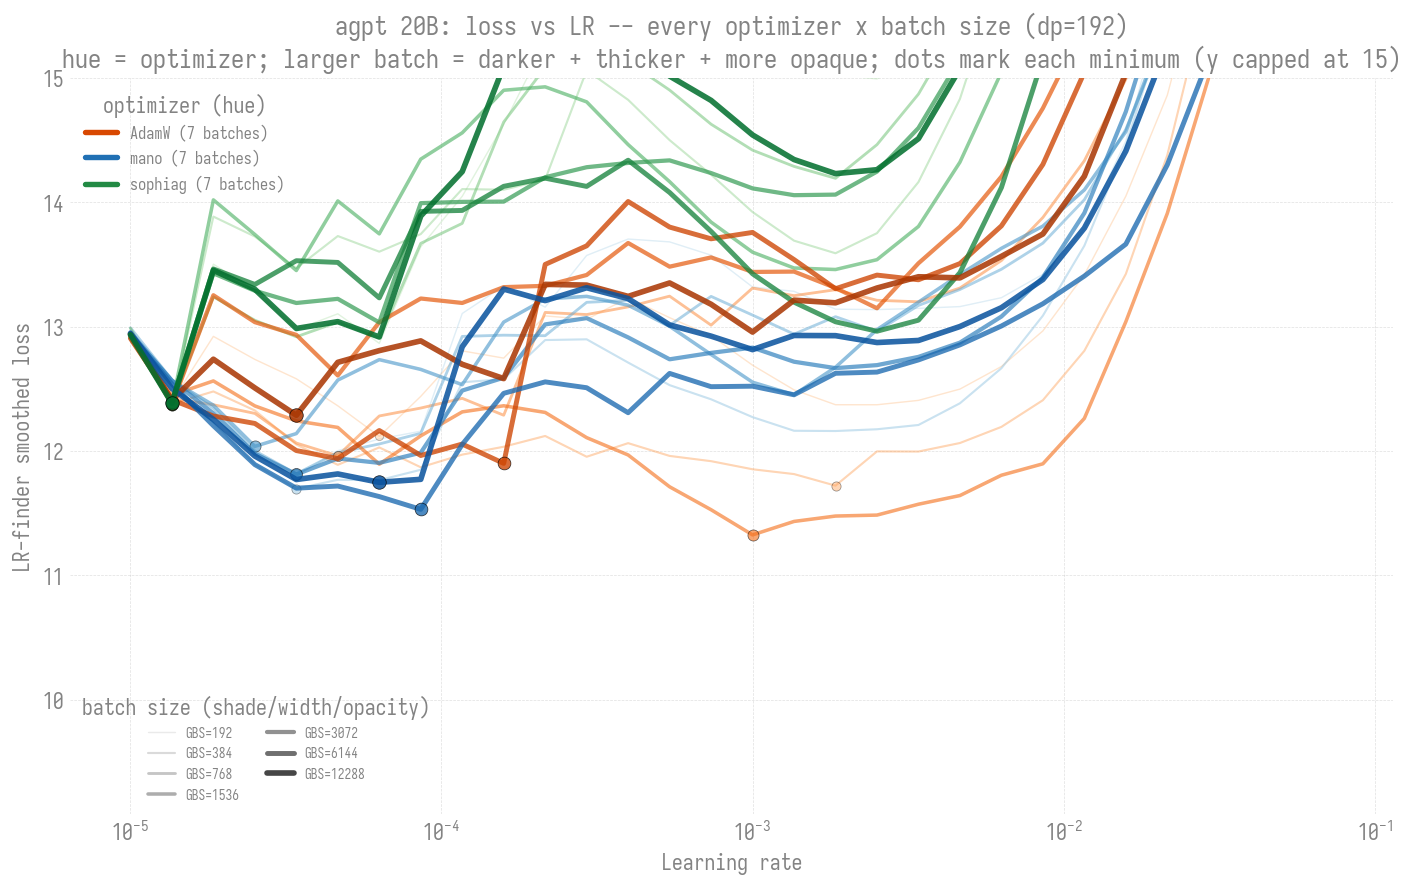
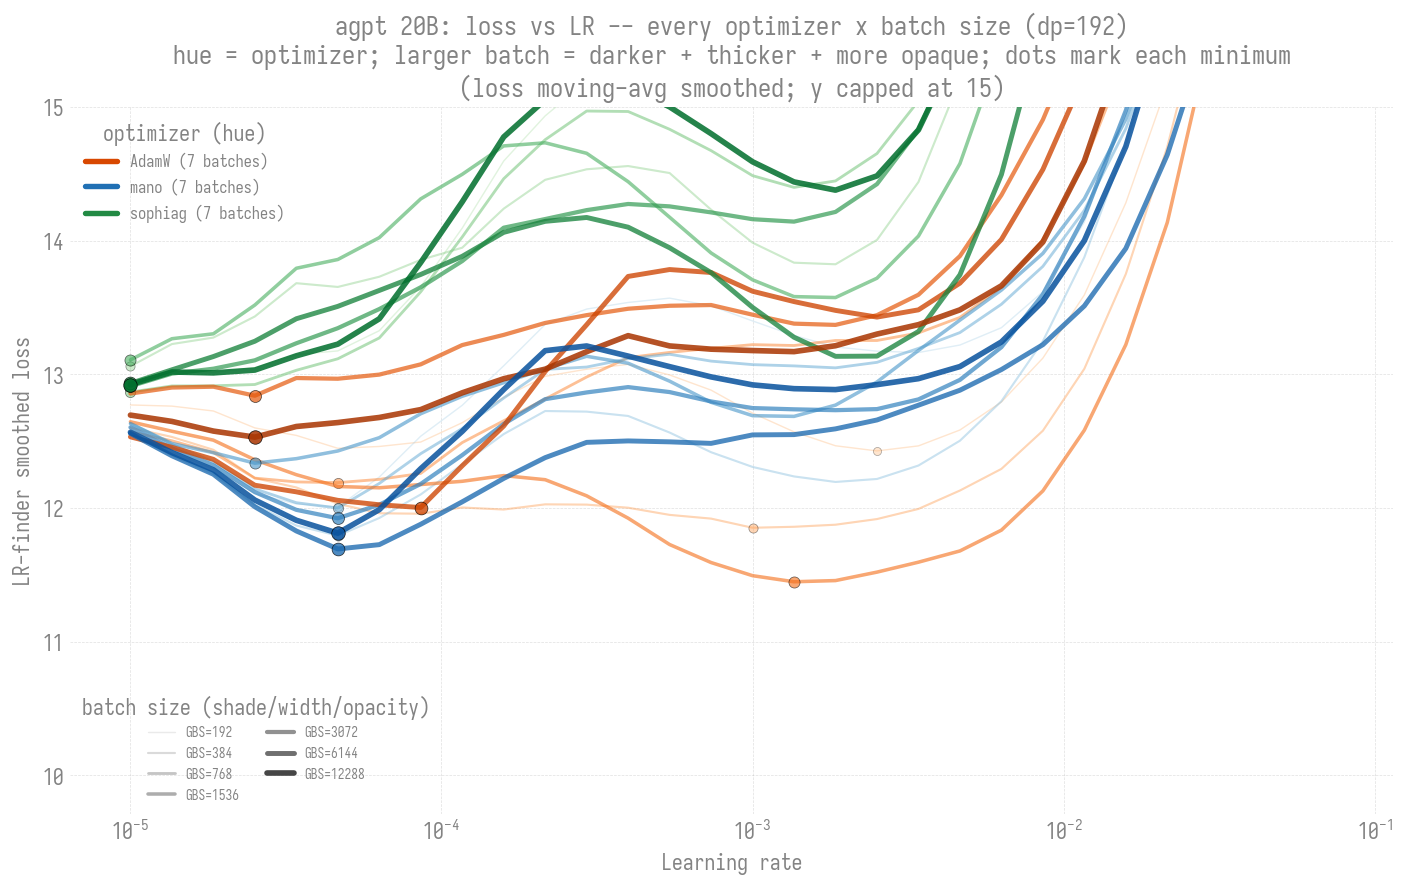
fix(ezpz/lr-finder): smooth loss curves in the combined plot (raw 30-step noise was spaghetti)
The 20B combined chart looked jagged/tangled: the CSV stores RAW per-step loss
(one minibatch per LR), and at 30-step resolution that minibatch noise renders
as a noisy double-dip 'W' instead of a clean U. (2B looked fine only because
its sweeps are 15 steps -> coarser LR jumps smooth the noise.)

Fix: add _smooth() (moving average, mirrors the smoothing lr_finder.py already
does internally for its min-detection but doesn't store) and apply it to the
loss before plotting + min-marker in plot_all_opts_all_gbs. The basin shape
now shows instead of minibatch noise. Title notes "loss moving-avg smoothed".

Honest note: even smoothed, 20B AdamW has a genuinely broad/shallow basin
(~1e-4..1e-3) vs 2B's tight U -- a real property, now visually consistent with
the "AdamW min-LR is noisy" caveat on the 20B page. Verdict unchanged: 20B
never NaNs.

diff --git a/torchtitan/experiments/ezpz/scripts/plot_lr_trend.py b/torchtitan/experiments/ezpz/scripts/plot_lr_trend.py
@@ -81,6 +81,27 @@ def _finite(lrs, losses):
     return ([p[0] for p in pts], [p[1] for p in pts])
 
 
+def _smooth(ys, frac=0.15):
+    """Moving-average smooth a loss curve (mirrors lr_finder.find_optimal_lr).
+
+    The CSV stores RAW per-step loss -- one minibatch per LR, so the curve is
+    noisy, and at 30-step resolution (vs the old 15) that noise shows up as a
+    jagged double-dip 'W' instead of a clean U. The finder smooths internally
+    for its own min-detection but writes raw loss; we replicate that smoothing
+    for display so the basin shape (not minibatch noise) is what's plotted.
+    """
+    n = len(ys)
+    if n < 4:
+        return ys[:]
+    w = max(2, int(n * frac))
+    out = []
+    for i in range(n):
+        lo = max(0, i - w // 2)
+        hi = min(n, i + w // 2 + 1)
+        out.append(sum(ys[lo:hi]) / (hi - lo))
+    return out
+
+
 def csv_2b(gbs: int, opt: str) -> str:
     return f"outputs/lrtrend-2b/gbs{gbs}/lr_finder/ezpz/ezpz.agpt/2b/{opt}/lr_finder_data.csv"
 
@@ -204,9 +225,10 @@ def plot_all_opts_all_gbs(out: Path, model: str = "2b") -> None:
             p = _csv_for(model, g, opt)
             if not Path(p).exists():
                 continue
-            fx, fy = _finite(*load_curve(p))
+            fx, fy_raw = _finite(*load_curve(p))
             if not fx:
                 continue
+            fy = _smooth(fy_raw)  # display the basin shape, not minibatch noise
             i = gbs_list.index(g)
             ax.plot(fx, fy, "-", lw=width[g], alpha=alpha[g],
                     color=cmap(shade[g]), zorder=2 + i)
@@ -226,7 +248,8 @@ def plot_all_opts_all_gbs(out: Path, model: str = "2b") -> None:
     ax.set_ylabel("LR-finder smoothed loss")
     ax.set_title(f"agpt {model.upper()}: loss vs LR -- every optimizer x batch "
                  f"size (dp=192)\nhue = optimizer; larger batch = darker + "
-                 f"thicker + more opaque; dots mark each minimum (y capped at 15)")
+                 f"thicker + more opaque; dots mark each minimum\n"
+                 f"(loss moving-avg smoothed; y capped at 15)")
     opt_handles = [
         Line2D([0], [0], color=plt.get_cmap(_OPT_CMAP[o])(0.75), lw=3,
                label=f"{OPT_LABEL[o]} ({plotted[o]} batches)")
